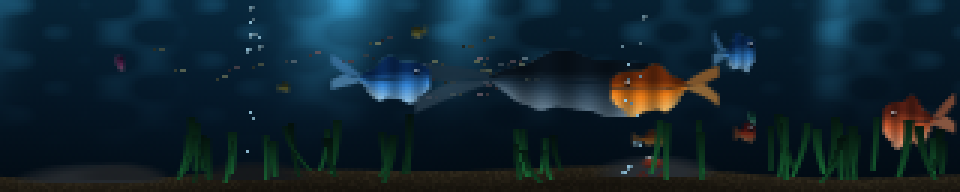
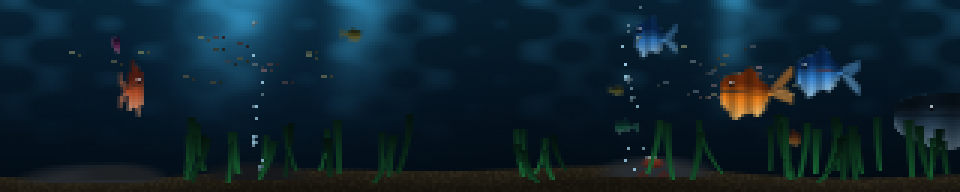
fish: point the fish the way they are swimming
The sprite generator bakes a right-facing fish -- fish_sprite says so, and
bake_fish promises table index 0 is full profile swimming left and the last
index full profile swimming right. But both mirror sites had the condition
inverted, mirroring when the fish moved *right*, so every fish in the tank and
the visitor all swam tail-first.

No existing check could catch it. A mirrored fish is a perfectly good fish:
one-piece, correctly shaded, beating its tail, staying in the water. It only
reads as wrong once it is moving, and a screenshot never shows motion. The
suite tested the sprite and it tested the path, but nothing compared the two.

So the new check does exactly that: it recovers the facing from the silhouette
alone -- a fish necks down to a thin peduncle before the caudal fin flares,
and the nose end just tapers, so the waist tells the ends apart -- and asserts
it against the direction each table index means. Verified decisive: 0 of 12
wrong with the fix, 12 of 12 wrong with the condition put back.

22 checks, 0 failed. Screenshot regenerated.

diff --git a/demos/scripts/test-fish.py b/demos/scripts/test-fish.py
@@ -369,6 +369,69 @@ def bench():
     print("  build(): %.0f ms" % ((time.perf_counter() - t0) * 1000.0))
 
 
+def _facing(alpha, thresh=0.35):
+    """Which way a baked sprite points, from its silhouette alone.
+
+    A fish tapers to a point at the nose, swells through the body, necks down
+    to a thin peduncle and then flares out again into the caudal fin. So the
+    two ends are told apart by the waist: the tail end dips to a local minimum
+    before its final flare, and the nose end just runs out. Returns "left",
+    "right", or None when the shape is too squashed to call.
+    """
+    h = (alpha > thresh).sum(axis=0).astype(float)
+    nz = np.nonzero(h)[0]
+    if len(nz) < 6:
+        return None
+    body = h[nz[0]:nz[-1] + 1]
+    mid = int(np.argmax(body))
+
+    def waist(seg):
+        if len(seg) < 4:
+            return False
+        m = int(np.argmin(seg))
+        return 0 < m < len(seg) - 1 and seg[m] < 0.65 * max(seg[0], seg[-1])
+
+    tail_left = waist(body[:mid + 1][::-1])
+    tail_right = waist(body[mid:])
+    if tail_left == tail_right:
+        return None
+    return "right" if tail_left else "left"
+
+
+def test_fish_face_the_way_they_swim():
+    """A fish must point where it is going.
+
+    bake_fish promises index 0 is full profile swimming left and the last
+    index is full profile swimming right, and fish_sprite bakes a right-facing
+    fish -- so exactly the *left* half of the table may be mirrored. That
+    condition was inverted, and every fish in the tank swam tail-first.
+
+    No still frame catches this and none of the other checks can: a mirrored
+    fish is a perfectly good fish, one-piece, correctly shaded, beating its
+    tail. It only reads as wrong once it is moving, which is why the test has
+    to compare the silhouette against the direction the table index means.
+    """
+    nsq = 9
+    tab = fish.bake_fish(26, 6.0, fish.VISITOR_STYLE, 0.0, (10, 40, 60), nsq)
+    bad, checked = [], 0
+    for k, want in ((0, "left"), (nsq - 1, "right")):
+        for j in range(fish.PH):
+            _, ia = tab[k][j]
+            got = _facing(1.0 - ia[0, ..., 0])
+            if got is None:
+                bad.append("k=%d j=%d silhouette unreadable" % (k, j))
+                continue
+            checked += 1
+            if got != want:
+                bad.append("k=%d j=%d faces %s, swims %s" % (k, j, got, want))
+    # Every full-profile sprite must be readable and right: at full profile
+    # there is no squash to blur the shape, so a None here is itself a failure.
+    check("full-profile fish face their direction of travel",
+          checked == 2 * fish.PH and not bad,
+          "%d/%d sprites checked, %d wrong%s"
+          % (checked, 2 * fish.PH, len(bad), ("; " + bad[0]) if bad else ""))
+
+
 def main():
     ap = argparse.ArgumentParser(description=__doc__.split("\n", 1)[0])
     ap.add_argument("--bench", action="store_true", help="also time a long run")
@@ -378,6 +441,7 @@ def main():
     test_sprites_are_one_piece()
     test_body_wave_actually_moves()
     test_fish_turn()
+    test_fish_face_the_way_they_swim()
     test_tail_phase_advances()
     test_jerk_chases()
     test_visitor_schedule()

diff --git a/demos/fish.py b/demos/fish.py
@@ -255,7 +255,7 @@ def bake_fish(length, amp, style, haze, water, nsq, detail=True):
         for j in range(PH):
             rgb, a = fish_sprite(length, amp, style, j / float(PH), squash,
                                  haze, water, detail)
-            if c > 0:                       # baked facing left; mirror for right
+            if c < 0:                       # baked facing right; mirror for left
                 rgb = rgb[:, ::-1].copy()
                 a = a[:, ::-1].copy()
             row.append(premul(rgb, a))
@@ -645,7 +645,7 @@ def build(args):
         for j in range(PH):
             rgb, a = fish_sprite(vlen, 6.4, VISITOR_STYLE, j / float(PH),
                                  1.0, 0.22, water_mid, detail=True)
-            if visitor["dir"] > 0:
+            if visitor["dir"] < 0:          # baked facing right; mirror for left
                 rgb = rgb[:, ::-1].copy()
                 a = a[:, ::-1].copy()
             rgbs.append(premul(rgb, a))
